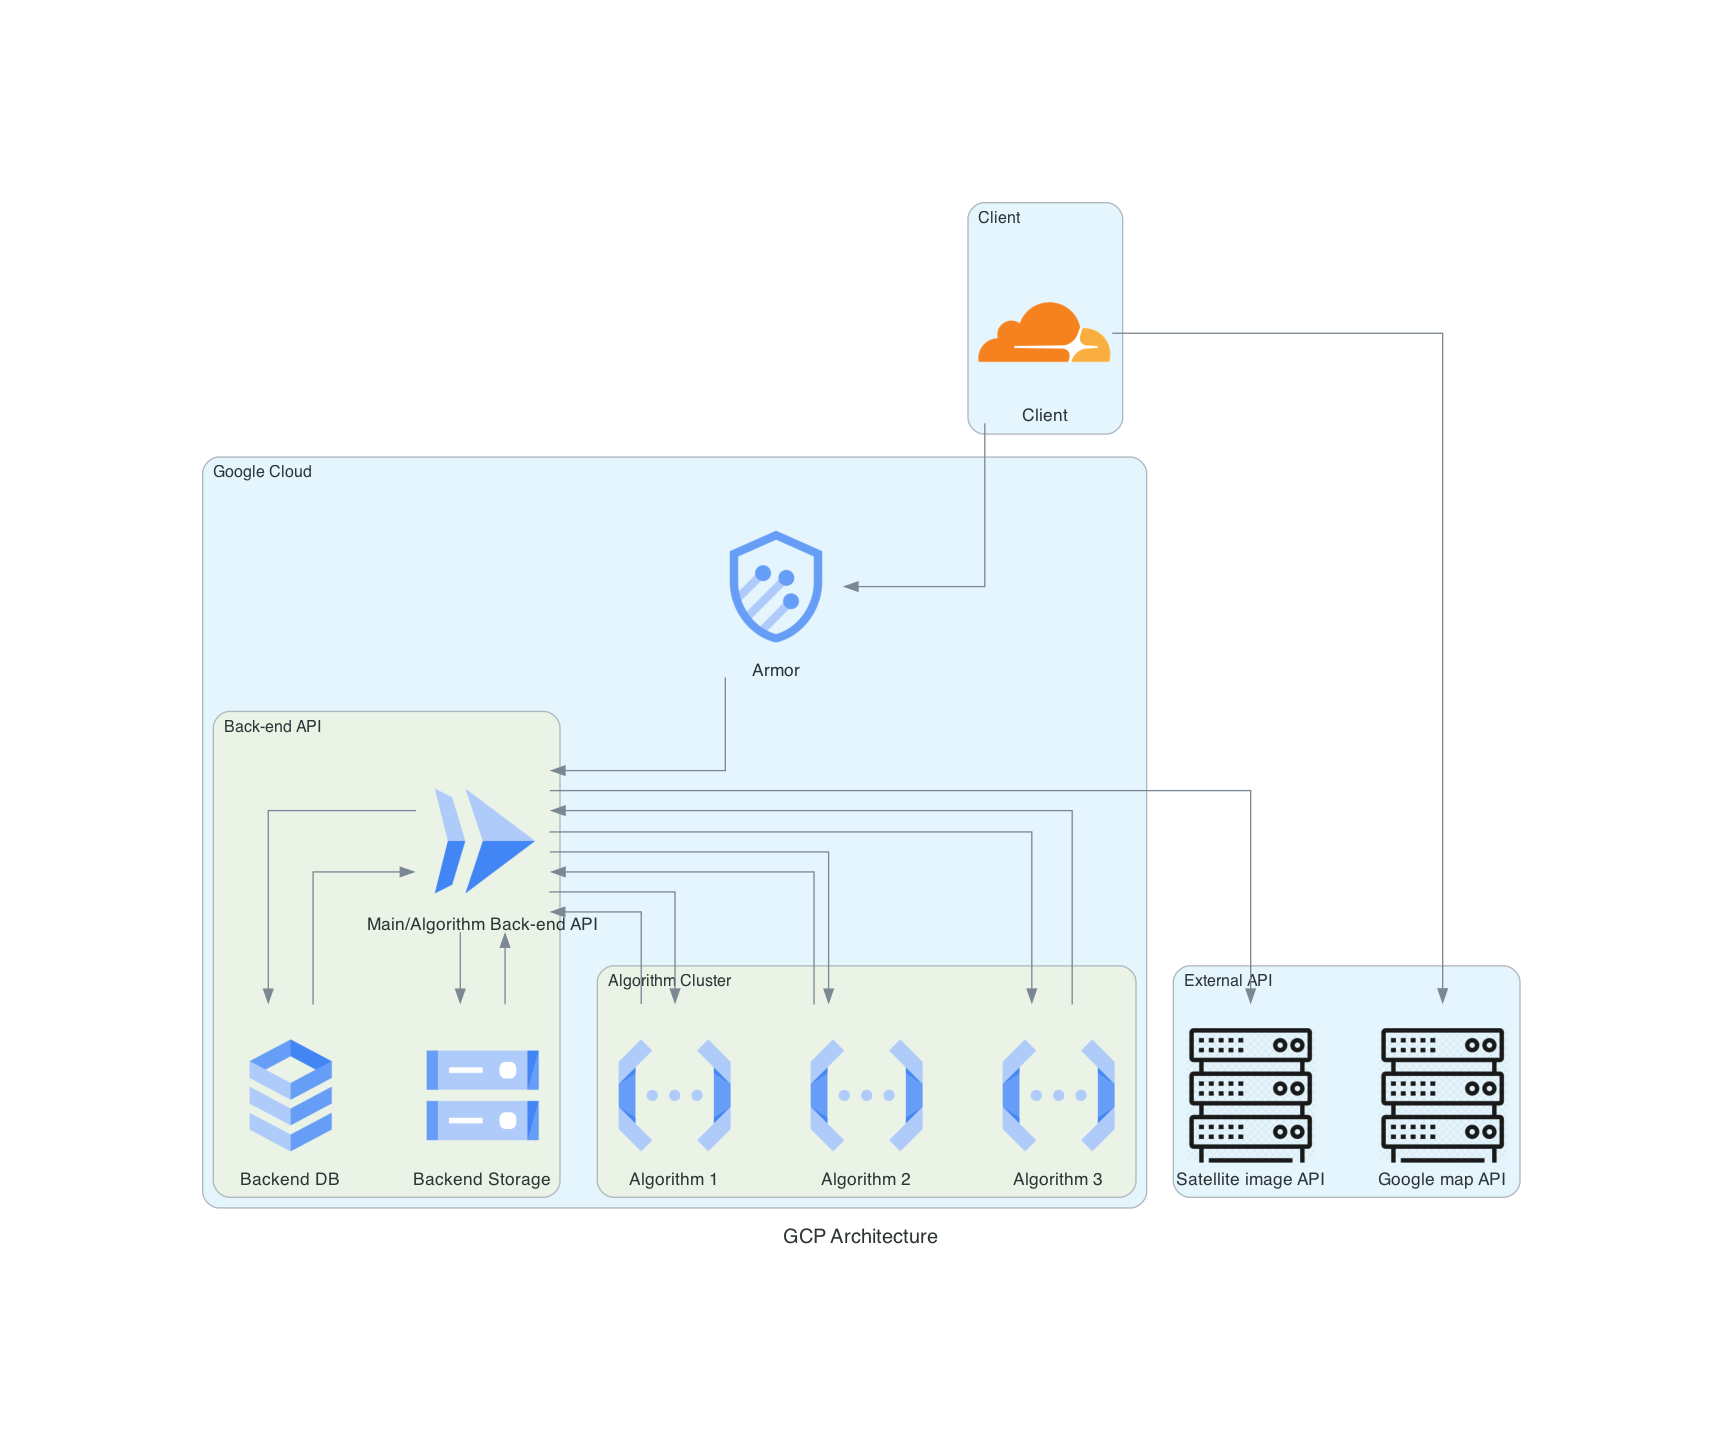
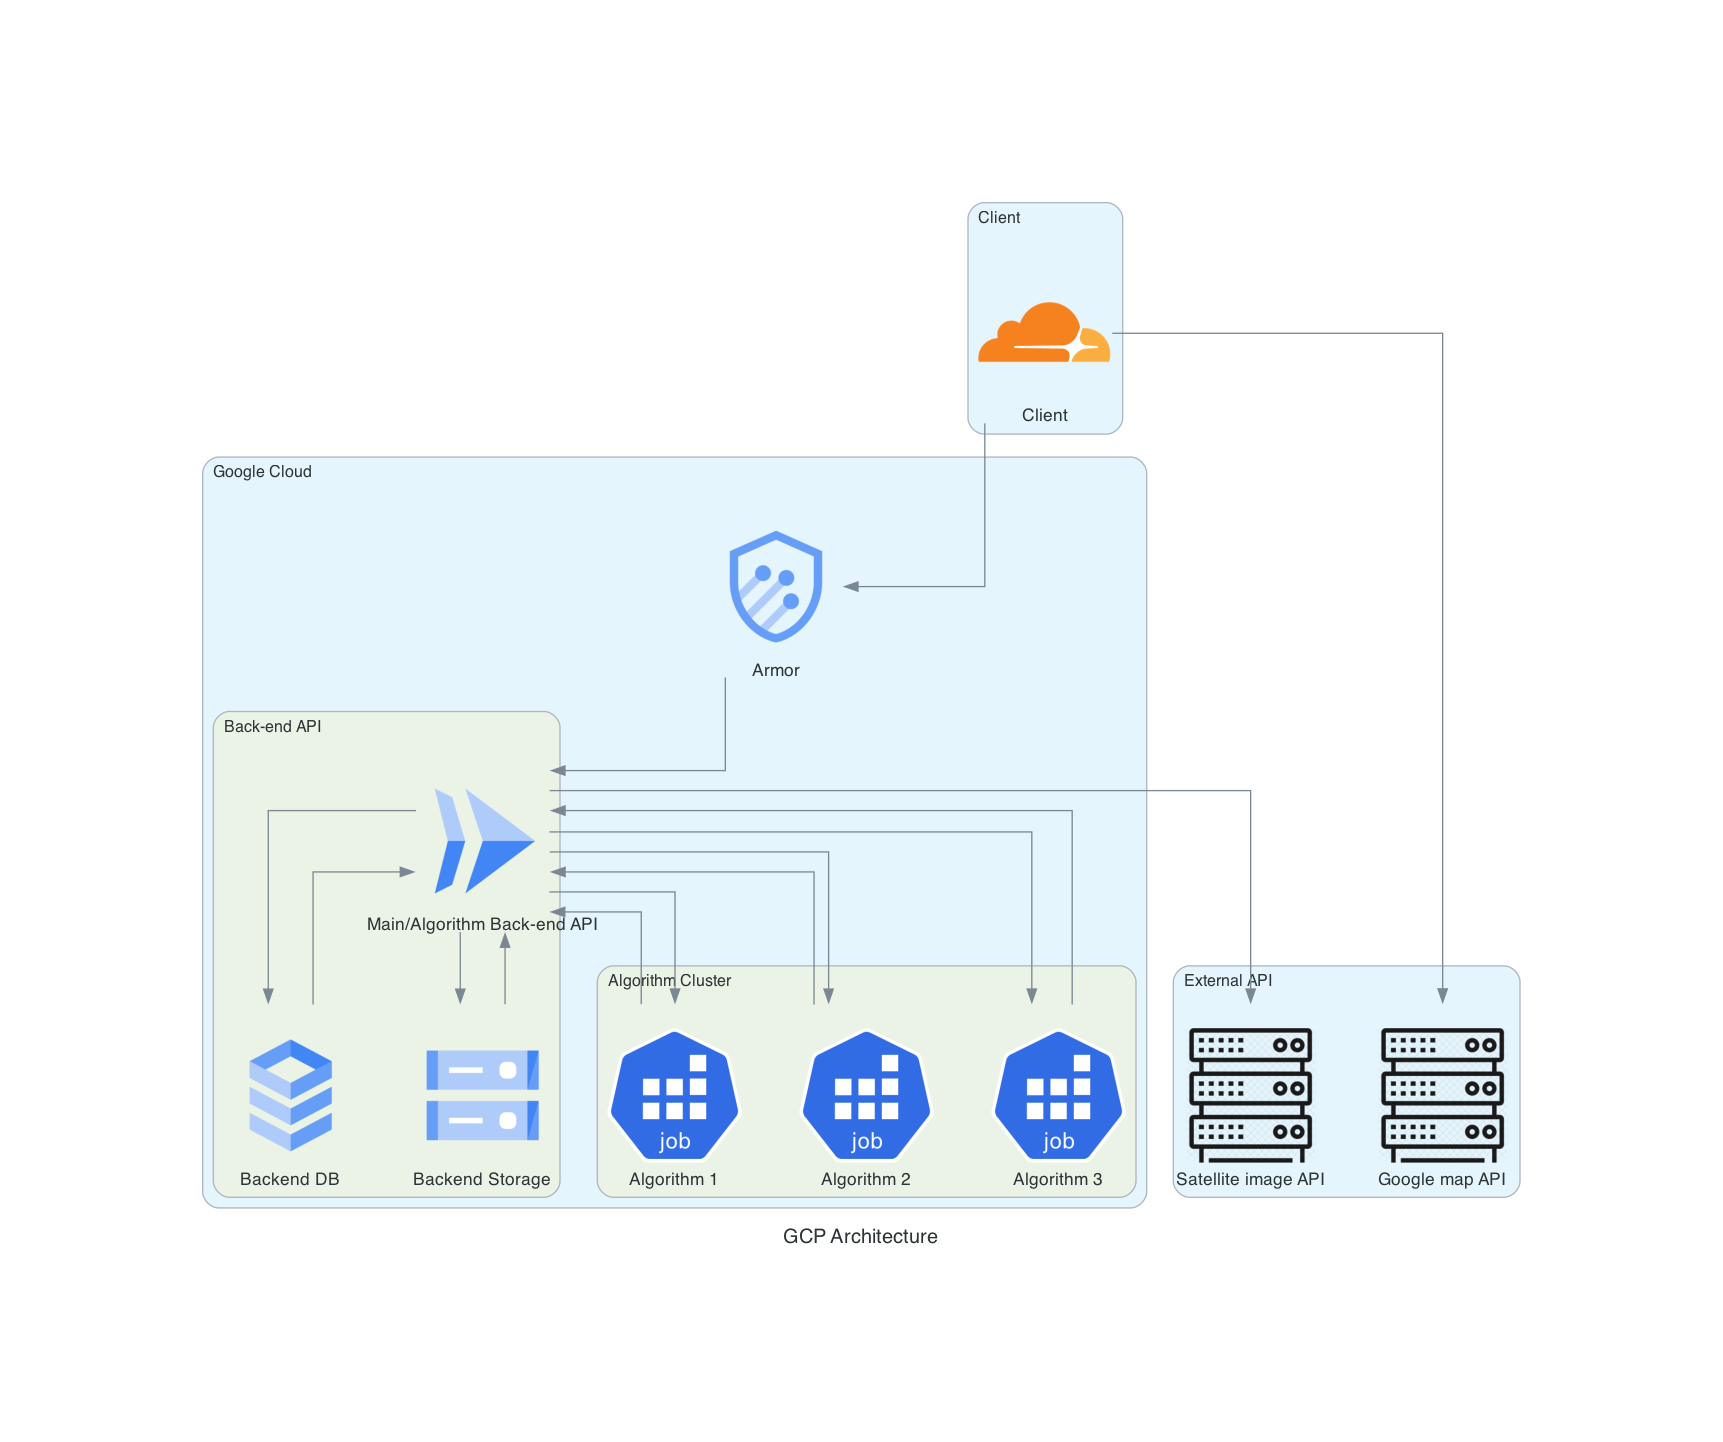
feat: update architecture

Changed region(s): [[0.4614, 0.7178, 0.6767, 0.8114], [0.3384, 0.7178, 0.4306, 0.8114]]

diff --git a/diagrams/architecture/__init__.py b/diagrams/architecture/__init__.py
@@ -1,12 +1,14 @@
 from diagrams import Diagram, Cluster
 from diagrams.gcp.network import Armor
-from diagrams.gcp.compute import Run, Functions
-from diagrams.gcp.database import SQL, Datastore
+from diagrams.gcp.compute import Run
+from diagrams.gcp.database import SQL
 from diagrams.onprem.database import PostgreSQL
+from diagrams.programming.language import Python
 from diagrams.programming.framework import React, Spring
 from diagrams.saas.cdn import Cloudflare
 from diagrams.generic.compute import Rack
 from diagrams.gcp.storage import Storage
+from diagrams.k8s.compute import Job
 
 
 def drawArchitecture(is_service=False):
@@ -25,9 +27,9 @@ def drawArchitecture(is_service=False):
                 algorithm_server = Spring("Algorithm Back-end Server")
 
         with Cluster("Algorithm Cluster"):
-            algorithm1 = Functions("Algorithm 1")
-            algorithm2 = Functions("Algorithm 2")
-            algorithm3 = Functions("Algorithm 3")
+            algorithm1 = Job("Algorithm 1") if not is_service else Python("Algorithm 1")
+            algorithm2 = Job("Algorithm 2") if not is_service else Python("Algorithm 2")
+            algorithm3 = Job("Algorithm 3") if not is_service else Python("Algorithm 3")
             algorithm_cluster = [algorithm1, algorithm2, algorithm3]
 
     with Cluster("External API"):

diff --git a/docs/feat/system/README.md b/docs/feat/system/README.md
@@ -6,4 +6,4 @@
 ## 概要
 
 本プロジェクトは、大まかに Backend と Visualizer と Algorithm Cluster の 3 つの部分に分かれる。
-互いの間は GraphQL で通信する。詳細は、[アーキテクチャ](../../architecture/README.md)及び、[データの定義](./data.md)を参照。
+詳細は、[アーキテクチャ](../../architecture/README.md)及び、[データの定義](./data.md)を参照。
